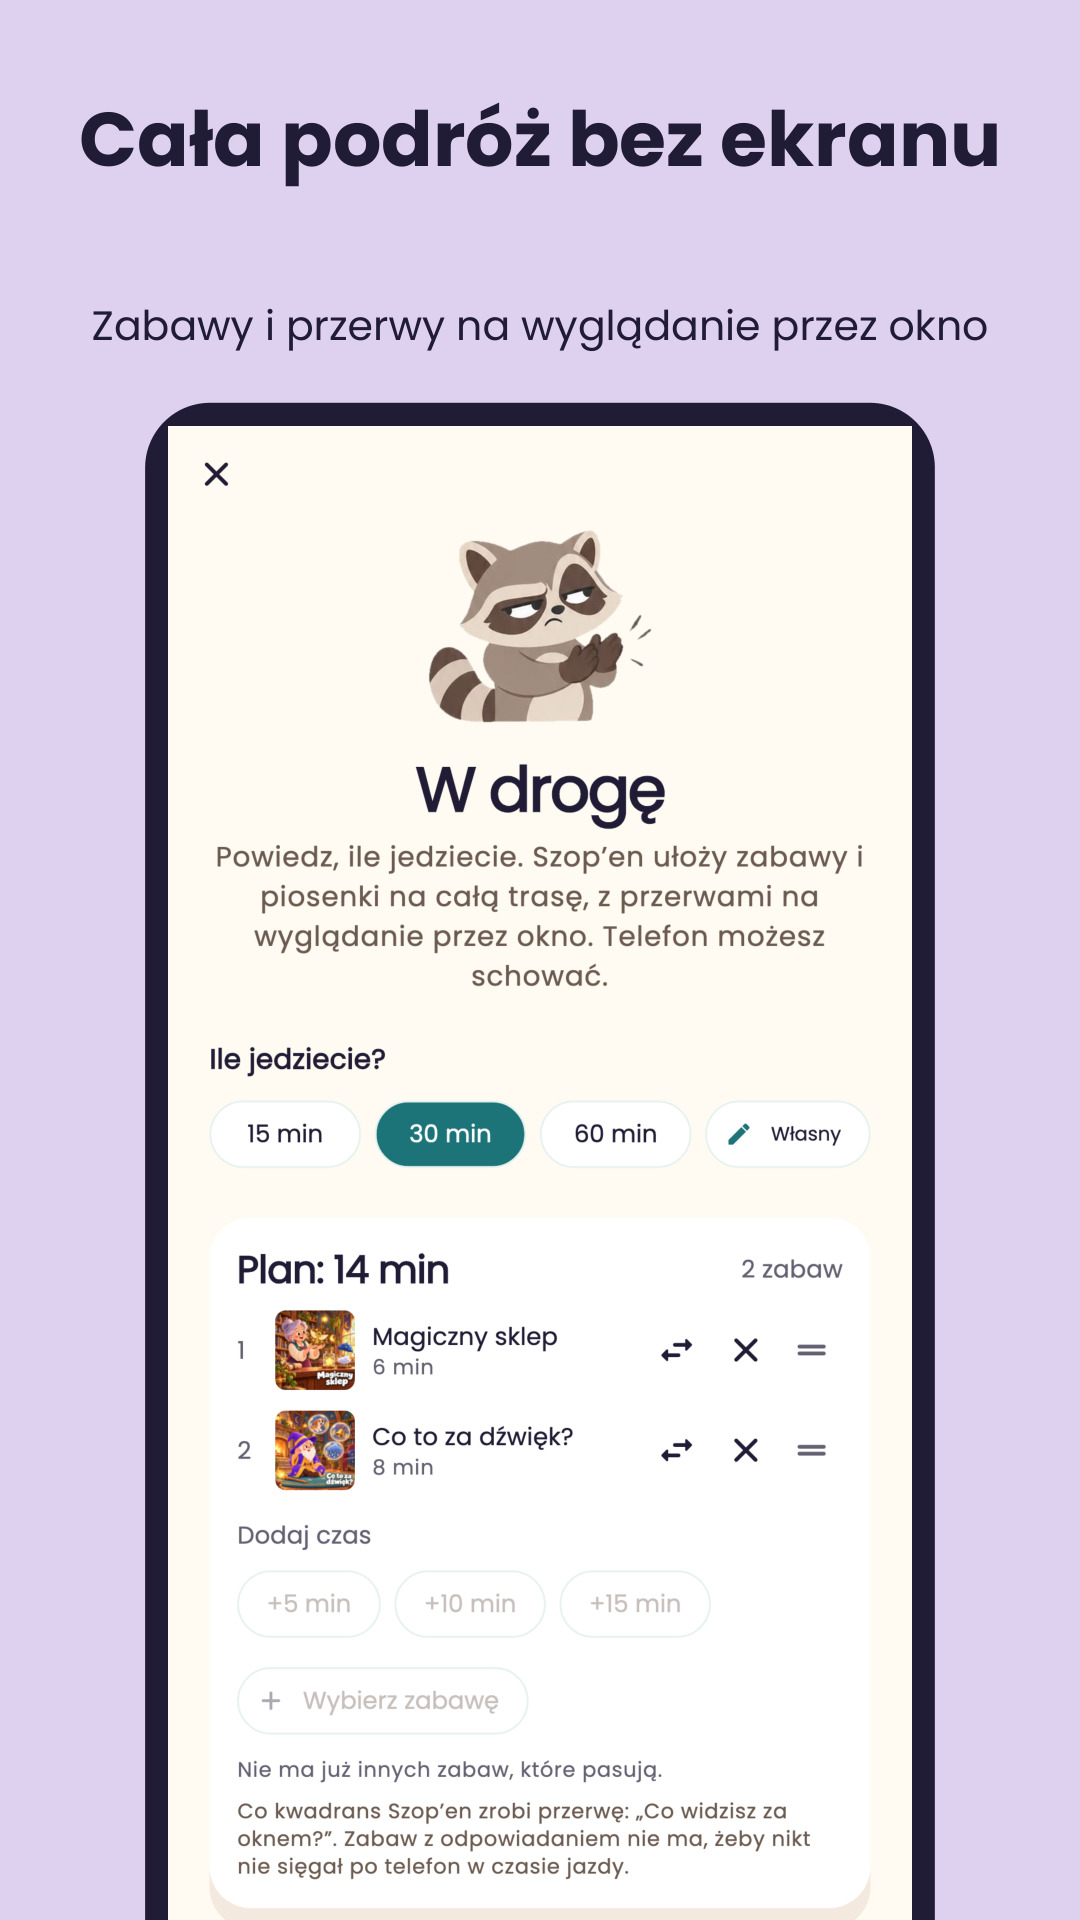
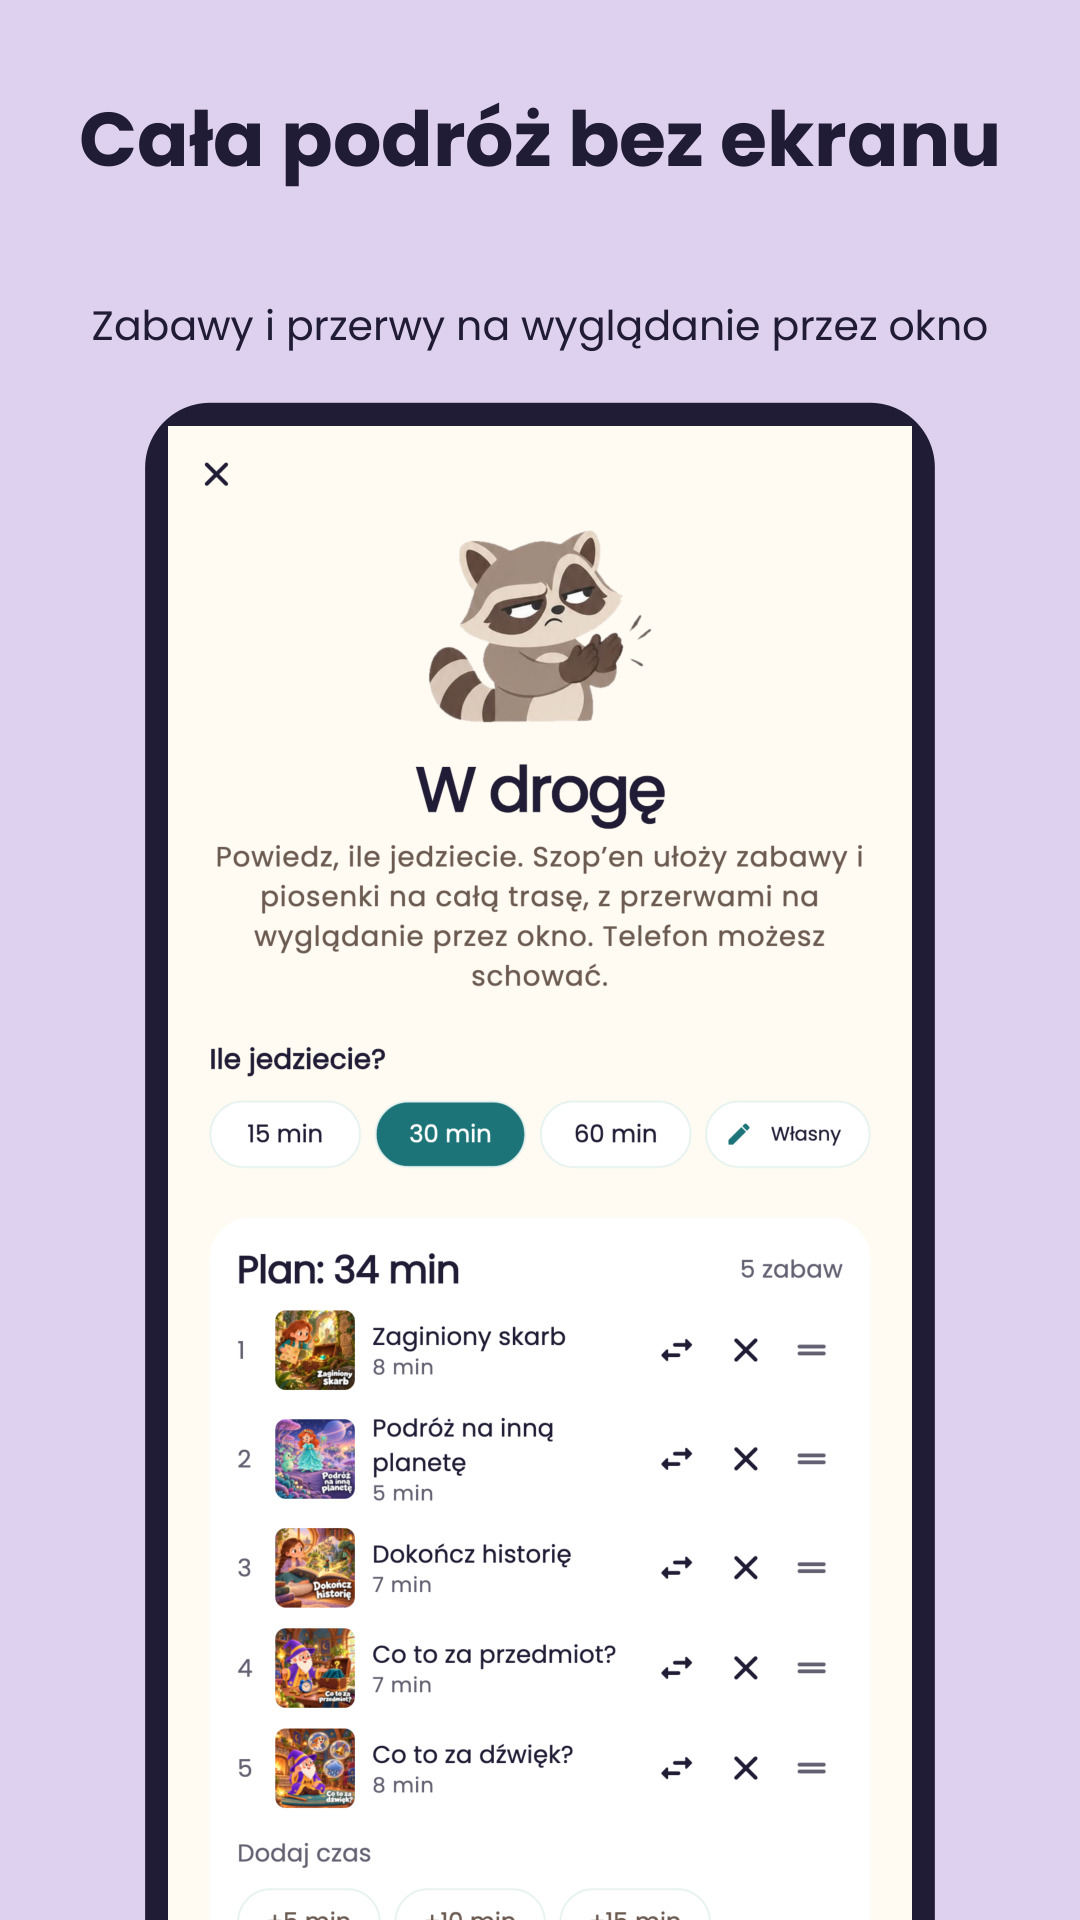
New store screenshots from build 22 with a subscribed sample family (the subscription is the only offer)

diff --git a/app/tool/store_screens_test.dart b/app/tool/store_screens_test.dart
@@ -1,5 +1,5 @@
 // Raw screens of the real app for the store screenshots (docs/sklepy/zrzuty). A sample family:
-// Zosia, 5, some plays finished (stickers in the album) and the Detektyw pack bought.
+// Zosia, 5, some plays finished (stickers in the album) and the subscription.
 //   cd app && flutter test tool/store_screens_test.dart
 //   python3 ../tool/store_frames.py        # adds the captions and the store sizes
 import 'dart:convert';
@@ -112,10 +112,12 @@ void main() {
               positionProvider.overrideWith((ref) => Stream.value(const Duration(minutes: 6, seconds: 12))),
               sleepTimerProvider.overrideWith((ref) => Stream<SleepTimer?>.value(null)),
               entitlementsProvider.overrideWithValue([
+                // Only the subscription is sold (13.10): a subscribed family, the whole library open.
                 Entitlement(
-                  scope: Scopes.pack('detektyw'),
+                  scope: Scopes.allContent,
                   status: EntitlementStatus.active,
-                  source: EntitlementSource.woocommerce,
+                  source: EntitlementSource.appStore,
+                  validUntil: now.add(const Duration(days: 300)),
                 ),
               ]),
               leaseStateProvider.overrideWithValue(LeaseState.valid),
